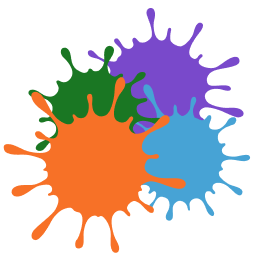
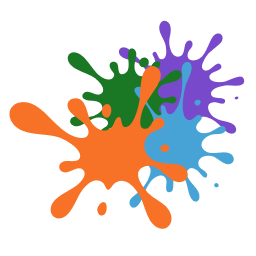
Sync Hydra Pressure version 1.0.2 from Palette Forge

diff --git a/README.md b/README.md
@@ -2,7 +2,7 @@
 
 ![hero](assets/hero.png)
 
-**Hydra Pressure** wraps VS Code in candy-neon ember orange and chilled cyan, pairing industrial edges with playful highlights; the name comes from the [_Torrentz Hydra Splatling_](https://splatoonwiki.org/wiki/Torrentz_Hydra_Splatling) heavy weapon in Splatoon 3, which inspired the palette.
+**Hydra Pressure** wraps VS Code in candy-neon ember orange and chilled cyan, pairing industrial edges with playful highlights; the name nods to the [_Hydra Splatling_](https://splatoonwiki.org/wiki/Hydra_Splatling) kit that inspired the palette’s high-pressure contrast.
 
 ![](assets/hydra-pressure-dark.png)
 

diff --git a/CHANGELOG.md b/CHANGELOG.md
@@ -1,5 +1,16 @@
 # Changelog
 
+## 1.0.2
+
+- Repacked and republished to include the theme JSON files in the VSIX.
+
+## 1.0.1
+
+- Updated the extension icon.
+- Retuned UI colors for both dark and light themes to improve balance and readability.
+- Refined UI surface tones (backgrounds, line numbers, tab borders, scrollbar shadows, notifications, panels) for a tighter look.
+- Expanded and adjusted color tokens to improve coverage across UI elements.
+
 ## 1.0.0
 
 - Initial release
